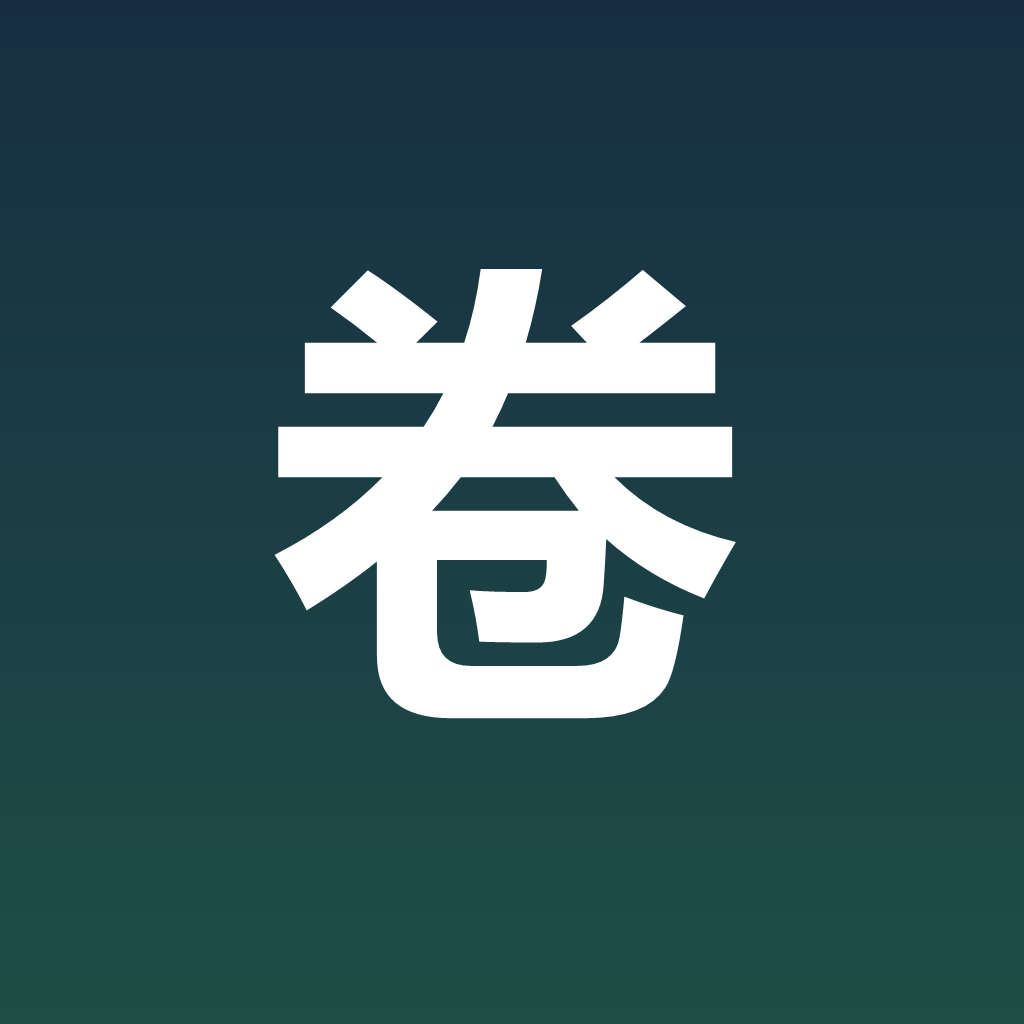
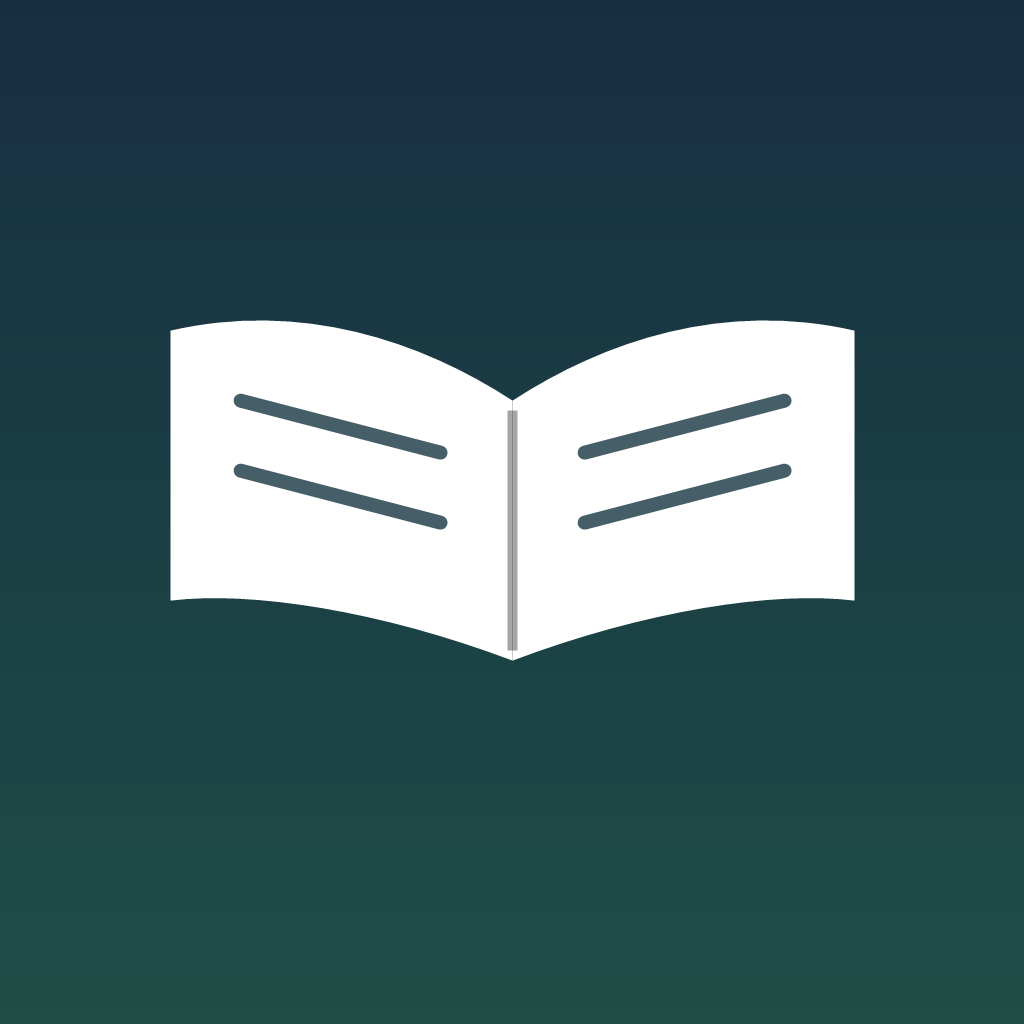
定名阅易（用户指定，弃展卷）+ 书本图标 + 标题栏根治：①全套品牌串展卷→阅易（strings/HTML title/shim转义/localsend alias/set_title替换/vendor=yueyi）②图标改书本元素——白色翻开书（贝塞尔页弧+页面文字行+书脊阴影），像素验证10902白点 ③标题栏Readest根治：set_title 传参键是 value 非 title（@tauri-apps/api window.js:822，hilog实证 raw=空→改后 raw=Readest→setWindowTitle ok:阅易→OCR标题栏=阅易）④shim 加 docum

Changed region(s): [[0.1562, 0.25, 0.8438, 0.7188]]

diff --git a/entry/src/main/resources/rawfile/tauri_shim.js b/entry/src/main/resources/rawfile/tauri_shim.js
@@ -5,6 +5,23 @@
 (function () {
   'use strict';
 
+  // Brand rename (2026-10-27, review feedback 9.5): the frontend sets
+  // document.title dynamically ("Readest — ...") and ArkWeb mirrors it to the
+  // PC window title bar. Intercept every title write and swap the brand so the
+  // window bar never shows the upstream name.
+  try {
+    var titleDesc = Object.getOwnPropertyDescriptor(Document.prototype, 'title');
+    if (titleDesc && titleDesc.set) {
+      Object.defineProperty(document, 'title', {
+        configurable: true,
+        get: function () { return titleDesc.get.call(document); },
+        set: function (v) {
+          try { titleDesc.set.call(document, String(v).replace(/readest/gi, '\u9605\u6613')); }
+          catch (e) { /* never block the page */ }
+        }
+      });
+    }
+  } catch (e) { /* older engines: fall back to natural behavior */ }
 
   try { console.log('[SHIM-LOAD]', (window.top === window ? 'main' : 'sub') + ':' +
     String(location.href).slice(-40)); } catch (e) { /* probe only */ }

diff --git a/docs/STORE-LISTING.md b/docs/STORE-LISTING.md
@@ -3,25 +3,25 @@
 > 2026-10-27 改名版。除【】占位外可直接复制进 AGC 表单。
 > 隐私政策口径：docs/PRIVACY-POLICY.md；上架流程：docs/PUBLISH.md。
 > **改名背景**：审核反馈应用名/图标与 "Readest - eBook Reader" 相似（审核指南 9.5），
-> 已全量改名 **展卷**（应用内标签/窗口标题/HTML 标题/图标全套替换，包名不变）。
+> 已全量改名 **阅易**（应用内标签/窗口标题/HTML 标题/图标全套替换，包名不变）。
 
 ## 应用基础信息
 
 | 字段 | 填写 |
 |---|---|
-| 应用名称 | **展卷阅读器**（原 Readest OHOS 阅读器，已弃用） |
+| 应用名称 | **阅易阅读器**（原 Readest OHOS 阅读器，已弃用） |
 | 包名 | com.readest.app（创建时已定，不可改；保持不变） |
 | 分类 | 新闻阅读 > 电子书 |
 | 标签 | 电子书、EPUB、PDF、阅读器、读书、笔记 |
 | 资费 | 免费（无应用内商品） |
 | 支持设备 | 首版仅勾 PC/2in1 |
 | 默认语言 | 简体中文 |
-| 应用图标 | `D:\Projects\ReadestOhos\artifacts\icon_216.png`（墨蓝渐变+白「卷」，与 readest 无相似性） |
+| 应用图标 | `D:\Projects\ReadestOhos\artifacts\icon_216.png`（墨蓝渐变+白色翻开书本，与 readest 无相似性） |
 | vendor | zhanjuan（app.json5） |
 
 ## 应用介绍（可直接粘贴）
 
-展卷是一款本地优先的电子书阅读器，为鸿蒙 PC 而来。
+阅易是一款本地优先的电子书阅读器，为鸿蒙 PC 而来。
 
 【格式全支持】EPUB / PDF / MOBI / AZW3 / FB2 / CBZ / TXT（含 GBK 编码），竖排、大文件、扫描件 PDF 均可流畅打开。
 
@@ -39,7 +39,7 @@
 
 ## 版本说明（1.0.1）
 
-品牌更名为"展卷"；修复书架导入与开书链路；附近设备页面在无设备时优雅显示空态。
+品牌更名为"阅易"；修复书架导入与开书链路；附近设备页面在无设备时优雅显示空态。
 
 ## 内容分级问卷要点
 
@@ -63,7 +63,7 @@
 |---|---|
 | 应用版权证书/代理证书 | 上传 AGPL-3.0 许可证全文 PDF |
 | 授权书及其他材料（zip） | 含：AGPL-3.0 许可证 PDF + 源码仓库地址说明（github.com/serendipityovo/readest） |
-| 名称相似性（审核反馈） | 已改名"展卷阅读器"+全新图标；介绍中仅保留 AGPL 事实性上游致谢（无品牌使用） |
+| 名称相似性（审核反馈） | 已改名"阅易阅读器"+全新图标；介绍中仅保留 AGPL 事实性上游致谢（无品牌使用） |
 
 ## 审核信息
 
@@ -89,4 +89,4 @@
 
 1. `桌面\Readest1.jpg` — 书架引导页
 2. `桌面\Readest2.jpg` — 阅读页（红楼梦正文+目录侧栏，无标题栏版本）
-3. `桌面\Readest3.jpg` — 书架含书（v1.0.1 改名后新拍，标题栏"展卷"）
+3. `桌面\Readest3.jpg` — 书架含书（v1.0.1 改名后新拍，标题栏"阅易"）
